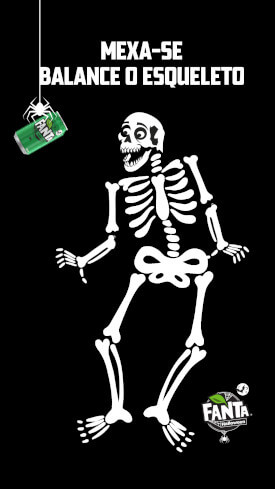
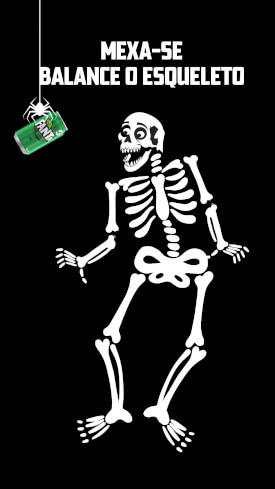
ajuste do cliente

Changed region(s): [[0.7273, 0.7669, 0.9309, 0.9202]]

diff --git a/src/pages/Home/home.scss b/src/pages/Home/home.scss
@@ -16,7 +16,7 @@ main.Home {
     .logo-tema {
         max-width: 32rem;
         position: relative;
-        top: -20px;
+        top: -10px;
     }
 
     button {
@@ -25,7 +25,7 @@ main.Home {
         background-size: 233px;
         background-repeat: no-repeat;
         position: relative;
-        top: -20px;
+        top: -10px;
 
         color: #fff;
         font-size: 25px;
@@ -79,18 +79,18 @@ main.Home {
     //     }
     // }
 
-    .rodape {
-        position: absolute;
-        bottom: 8px;
+    // .rodape {
+    //     position: absolute;
+    //     bottom: 8px;
 
-        img {
-            max-width: 40px;
-        }
+    //     img {
+    //         max-width: 40px;
+    //     }
 
-        @media screen and (max-height: 568px) {
-            display: none;            
-        }
-    }
+    //     @media screen and (max-height: 568px) {
+    //         display: none;            
+    //     }
+    // }
 
     > img {
         max-width: 120px;

diff --git a/src/pages/Home/index.jsx b/src/pages/Home/index.jsx
@@ -4,7 +4,7 @@ import { useNavigate } from 'react-router-dom';
 
 // Assets:
 import logo from '../../assets/GifLogo.gif';
-import logoFanta from '../../assets/logo-fantaPreto.png';
+// import logoFanta from '../../assets/logo-fantaPreto.png';
 import nuvem from "../../assets/icones/nuvem.png"
 import olhos from "../../assets/icones/olhos.png"
 import relampago from "../../assets/icones/raio2.png"
@@ -40,10 +40,9 @@ export default function Home() {
                 Atreva-se a clicar
             </button>
 
-            <div className='rodape'>
+            {/* <div className='rodape'>
                 <img src={logoFanta} alt="" />
-            </div>
-
+            </div> */}
 
             <img className='cloud1 nuvem-goR' src={nuvem} alt="" />
             <img className='cloud2 nuvem-goL' src={nuvem} alt="" />

diff --git a/src/components/Modal/modal.jsx b/src/components/Modal/modal.jsx
@@ -1,8 +1,6 @@
 // Funcionalidades / Libs:
 import { useState } from "react";
-import { useNavigate } from 'react-router-dom';
 import PropTypes from "prop-types";
-
 
 
 // Assets:
@@ -13,12 +11,6 @@ import './modal.scss';
 
 
 export function Modal({ closeModal }) {
-    const navigate = useNavigate();
-
-    function handleOk() {
-        closeModal(); 
-        navigate('/fim', { replace: true });       
-    }
 
     return (
         <div className="Modal-container">
@@ -30,7 +22,7 @@ export function Modal({ closeModal }) {
 
                 <p>Se posicione na marcação que o jogo será iniciado no painel.</p>
 
-                <button onClick={handleOk}>Ok</button>
+                <button onClick={closeModal}>Ok</button>
             </div>
 
         </div>

diff --git a/src/routes.jsx b/src/routes.jsx
@@ -5,7 +5,6 @@ import { Routes, Route } from "react-router-dom";
 import Home from "./pages/Home";
 import Termos from "./pages/Termos";
 import Instrucoes from "./pages/Instrucoes";
-import Fim from "./pages/Fim";
 
 
 export function AppRoutes() {
@@ -16,8 +15,6 @@ export function AppRoutes() {
             <Route path="/termos" element={ <Termos/> } />
 
             <Route path="/instrucoes" element={ <Instrucoes/> } />
-
-            <Route path="/fim" element={ <Fim/> } />
         </Routes>
     )
 }
